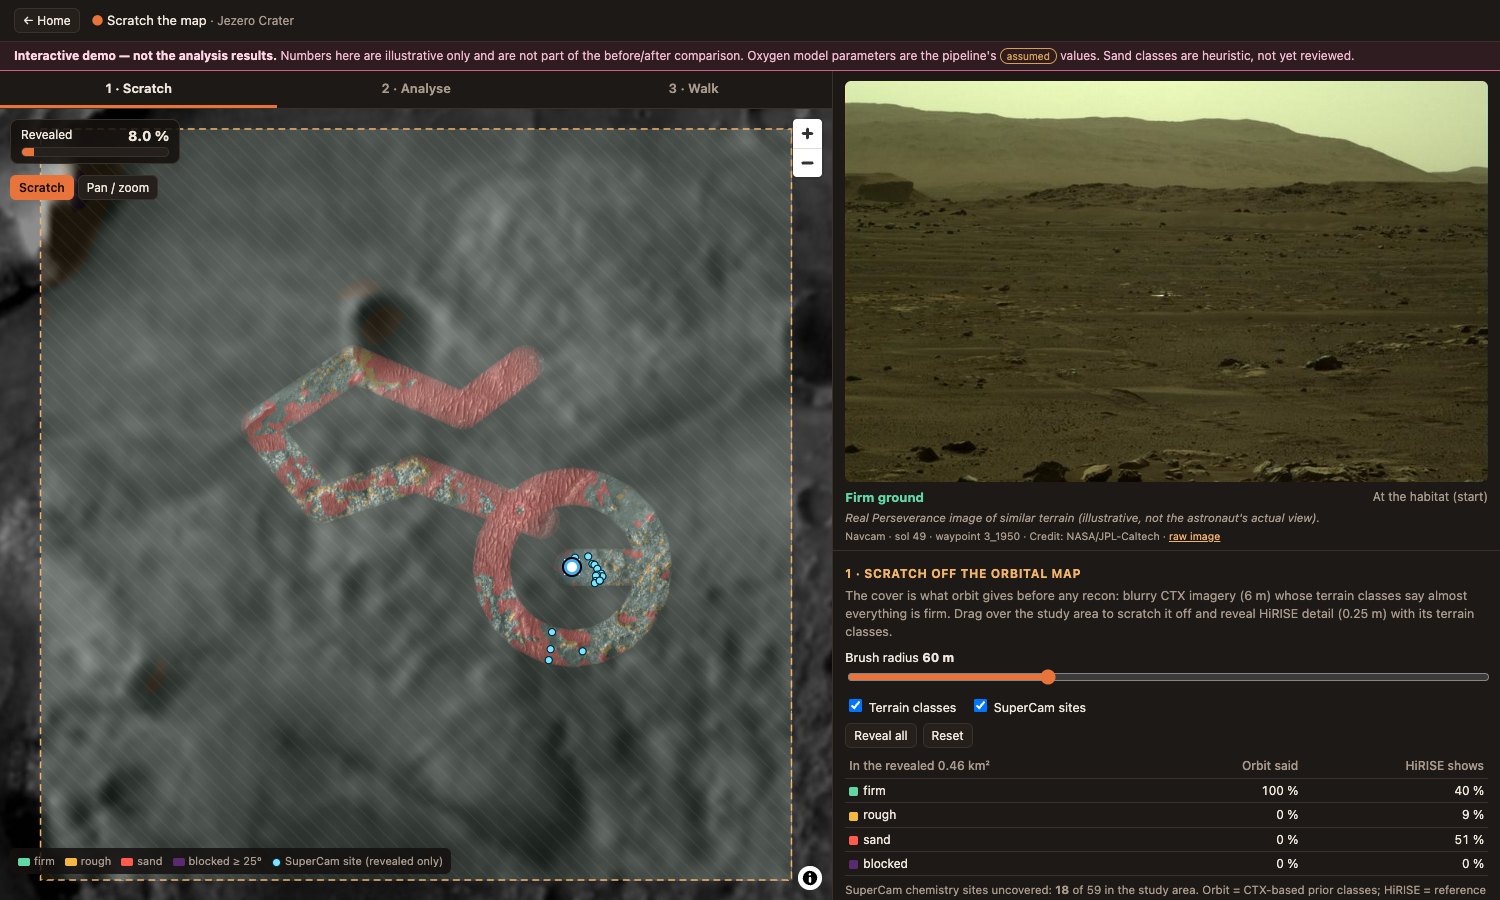
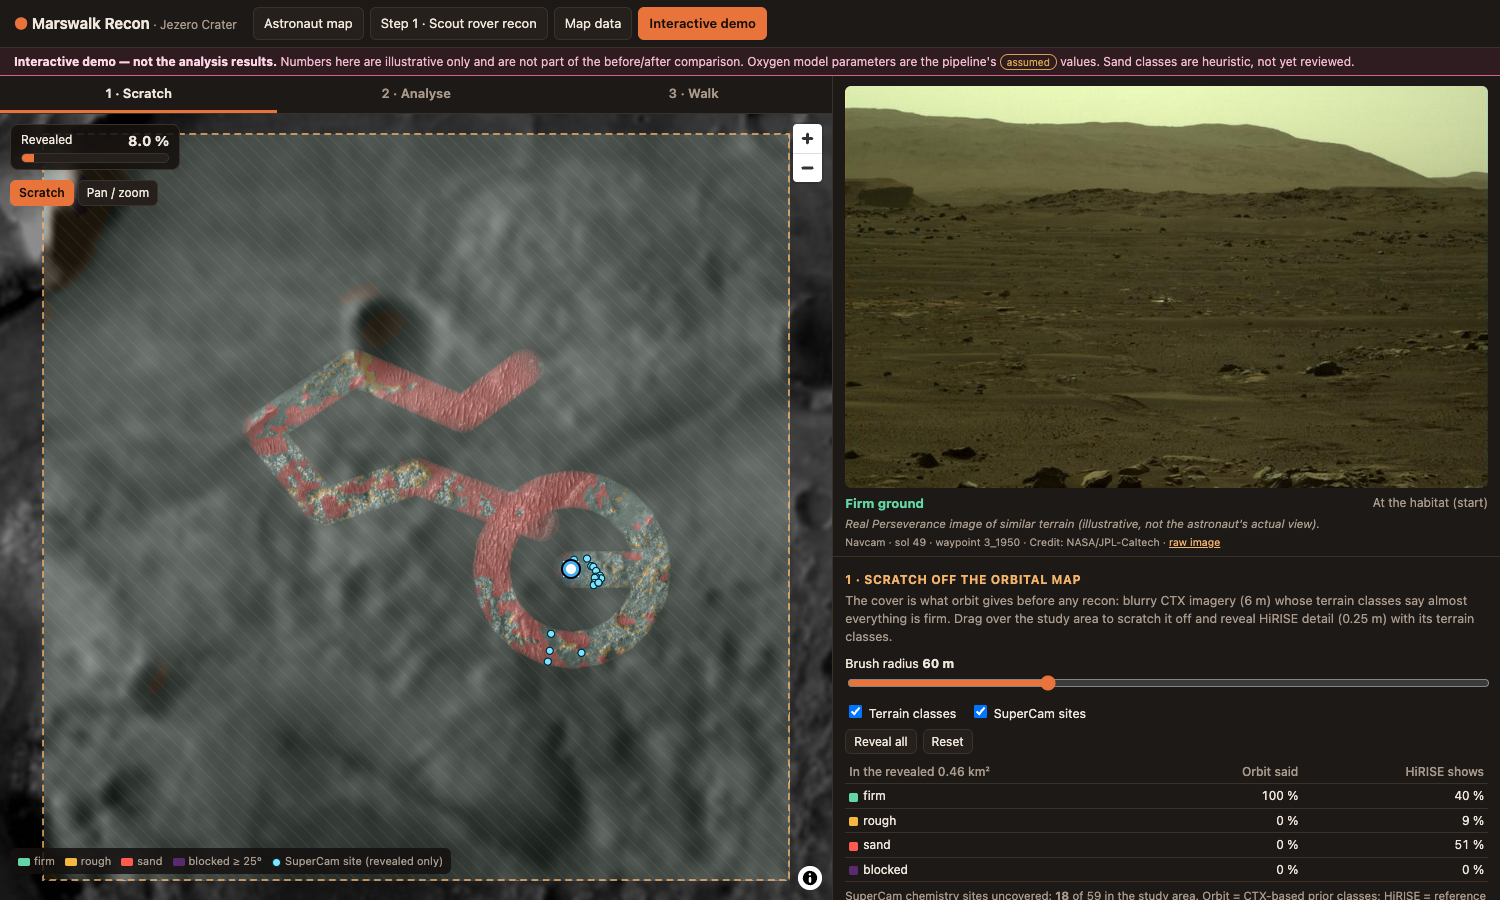
Scratch demo: SI notice (file headers, 'si' key in data JSON, page text) and the shared top bar with the demo marked current
Claude-Session: https://claude.ai/code/session_01PJvXnofSRBXUdNFScTHsf8

diff --git a/scratch/index.html b/scratch/index.html
@@ -1,4 +1,5 @@
 <!doctype html>
+<!-- SI: written by an AI coding agent (Anthropic Claude via Claude Code) under the team's direction; see docs/AI_USE.md -->
 <html lang="en">
 <head>
 <meta charset="utf-8">
@@ -10,9 +11,14 @@
 <link rel="stylesheet" href="scratch.css">
 </head>
 <body>
-<header id="sTop">
-  <a class="btn sm" href="../index.html">&larr; Home</a>
-  <div class="brand"><span class="logo">&#9679;</span> Scratch the map <span class="muted">· Jezero Crater</span></div>
+<header id="top">
+  <a class="brand" href="../index.html"><span class="logo">&#9679;</span> Marswalk Recon <span class="muted">· Jezero Crater</span></a>
+  <nav id="pages" aria-label="Pages">
+    <a class="btn" href="../index.html">Astronaut map</a>
+    <a class="btn" href="../recon.html">Step 1 · Scout rover recon</a>
+    <a class="btn" href="../data.html">Map data</a>
+    <a class="btn demo active" href="./" aria-current="page">Interactive demo</a>
+  </nav>
 </header>
 <div id="demoBanner" role="note"><b>Interactive demo — not the analysis results.</b> Numbers here are illustrative only and are not part of the before/after comparison. Oxygen model parameters are the pipeline's <span class="badge assumed">assumed</span> values. Sand classes are heuristic, not yet reviewed.</div>
 <main id="sMain">
@@ -100,6 +106,7 @@
         </details>
       </div>
       <p class="hint foot">Data: CTX and HiRISE orthomosaics (NASA/JPL/MSSS, NASA/JPL/UArizona via USGS Mars 2020 TRN), terrain classes from the team pipeline (HiRISE DTM, 2 m), SuperCam LIBS oxides (PDS Geosciences), Perseverance raw images (NASA/JPL-Caltech). Habitat at Octavia E. Butler Landing <span class="badge assumed">assumed</span>.</p>
+      <p class="hint si">SI: this page and its code were written, and its derived data files (data/*.json, data/terrain.bin) generated by code written, by an AI coding agent (Anthropic Claude via Claude Code) under the team's direction; see docs/AI_USE.md. Perseverance photos are unmodified NASA/JPL-Caltech images.</p>
     </div>
   </section>
 </main>

diff --git a/scratch/scratch.css b/scratch/scratch.css
@@ -1,7 +1,6 @@
+/* SI: written by an AI coding agent (Anthropic Claude via Claude Code) under the team's direction; see docs/AI_USE.md */
 /* Scratch demo page. Builds on ../style.css tokens (--bg, --panel, --accent ...). */
 html, body { height: 100%; }
-body { display: flex; flex-direction: column; background: var(--bg); }
-header#sTop { display: flex; align-items: center; gap: 12px; padding: 8px 14px; background: var(--panel); border-bottom: 1px solid var(--line); flex: none; }
 #demoBanner { flex: none; background: rgba(214,95,143,.14); border-bottom: 1px solid var(--simulated); color: #f0b9cf; font-size: 12px; padding: 5px 14px; }
 #demoBanner b { color: #ffd6e6; }
 main#sMain { flex: 1; min-height: 0; height: auto; display: grid; grid-template-columns: minmax(0, 1.25fr) minmax(340px, 1fr); }

diff --git a/scratch/scratch.js b/scratch/scratch.js
@@ -1,3 +1,4 @@
+// SI: written by an AI coding agent (Anthropic Claude via Claude Code) under the team's direction; see docs/AI_USE.md
 /* Scratch the map — interactive demo (NOT the analysis results). Plain JS, no build step.
    1 Scratch: a blurry CTX cover over the Jezero AOI is erased where the user drags, revealing HiRISE imagery and the
      HiRISE reference terrain classes (2 m). 2 Analyse: simple, explainable rules on the revealed cells only.

diff --git a/scratch/build_data.py b/scratch/build_data.py
@@ -1,3 +1,4 @@
+# SI: written by an AI coding agent (Anthropic Claude via Claude Code) under the team's direction; see docs/AI_USE.md
 """Scratch demo: build the small derived files used by scratch.html (interactive demo only, not the analysis).
 
 Run from app/:  .conda-env/bin/python web/scratch/build_data.py
@@ -8,6 +9,7 @@ Writes: web/scratch/data/terrain.bin   1200 x 1200 uint8, row 0 = north (y = 140
                                        (0 firm, 1 rough, 2 sand, 3 blocked; sand classes heuristic, not yet reviewed)
         web/scratch/data/supercam.json SuperCam LIBS sites in the AOI (placed on the rover's last waypoint
                                        at or before the sol, same rule as spikes/s3_report.py), mean oxides
+        (terrain.bin is raw bytes and carries no metadata; its SI notice is in this header and on the page)
         web/scratch/data/views.json    hand-picked Perseverance images per terrain class of the 22 m window
                                        around the waypoint where they were taken (illustrative only)
 """
@@ -21,6 +23,7 @@ import numpy as np
 APP = Path(__file__).resolve().parents[2]
 OUT = APP / "web/scratch/data"
 OUT.mkdir(parents=True, exist_ok=True)
+SI = "SI: written by an AI coding agent (Anthropic Claude via Claude Code) under the team's direction; see docs/AI_USE.md"
 AOI = (-1700, -1000, 700, 1400)
 RES = 2.0
 
@@ -65,7 +68,7 @@ for s in sites.values():
     out.append({"id": s["id"], "x": s["x"], "y": s["y"], "lon": s["lon"], "lat": s["lat"], "n_shots": s["n"],
                 "targets": sorted(s["targets"]), "sols": sorted(s["sols"]), "mean_wt_pct": mean})
 out.sort(key=lambda s: s["sols"][0])
-json.dump({"label": "measured (oxides); location derived",
+json.dump({"si": SI, "label": "measured (oxides); location derived",
            "location_rule": "rover's last waypoint at or before the sol of the shot (site/drive not used); precision = waypoint, LIBS standoff median ~3 m",
            "source": "Mars 2020 SuperCam LIBS major-oxide table (supercam_libs_moc.csv), PDS Geosciences; calibration targets excluded",
            "oxides": OX, "sites": out}, open(OUT / "supercam.json", "w"), indent=0)
@@ -100,7 +103,7 @@ for k, idx in CHOSEN.items():
                          "sol": im["sol"], "waypoint": w["id"], "x": w["x"], "y": w["y"],
                          "class_share_22m": round(fr, 2), "credit": im.get("credit") or P["credit_default"],
                          "page": im.get("page"), "heading_deg": (im.get("view") or {}).get("heading_deg")})
-json.dump({"label": "measured images; class assignment derived; use illustrative",
+json.dump({"si": SI, "label": "measured images; class assignment derived; use illustrative",
            "rule": "terrain class = majority HiRISE reference class in the 22 m window around the waypoint; Navcam/Front Hazcam only; picked by eye for a forward view",
            "views": views}, open(OUT / "views.json", "w"), indent=1)
 print({k: len(v) for k, v in views.items()}, "supercam sites", len(out))

diff --git a/scratch/screenshot.py b/scratch/screenshot.py
@@ -1,3 +1,4 @@
+# SI: written by an AI coding agent (Anthropic Claude via Claude Code) under the team's direction; see docs/AI_USE.md
 """Headless screenshots of the scratch demo (scratch/index.html).
 Run from app/:  .conda-env/bin/python web/scratch/screenshot.py [--url http://127.0.0.1:8765]
 -> web/scratch/screenshots/{01_scratching,02_analysed,03_playing,04_mobile}.png; prints console errors."""
